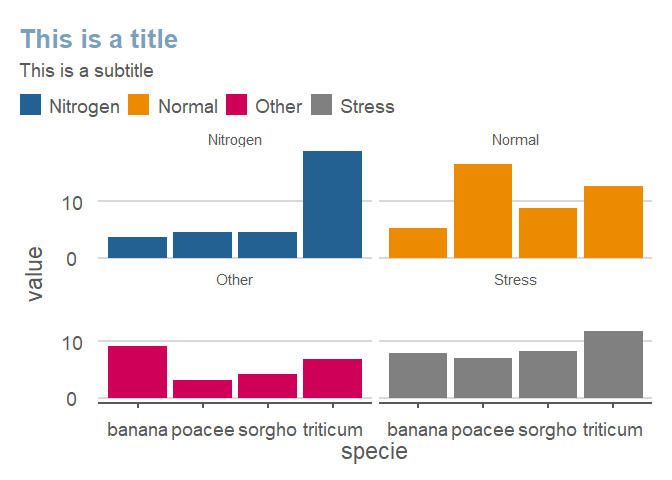
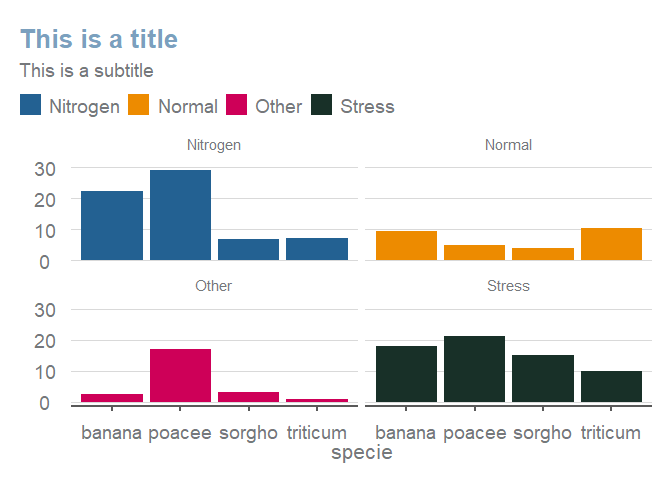
update

diff --git a/README.md b/README.md
@@ -56,7 +56,7 @@ data %>%
   facet_wrap(~condition) +
   labs(title = "This is a title",
        subtitle = "This is a subtitle") +
-  esc_theme(scale = .8)
+  esc_theme(rm_y_leg = TRUE)
 ```
 
 <img src="man/figures/README-example-1.png" width="100%" />
